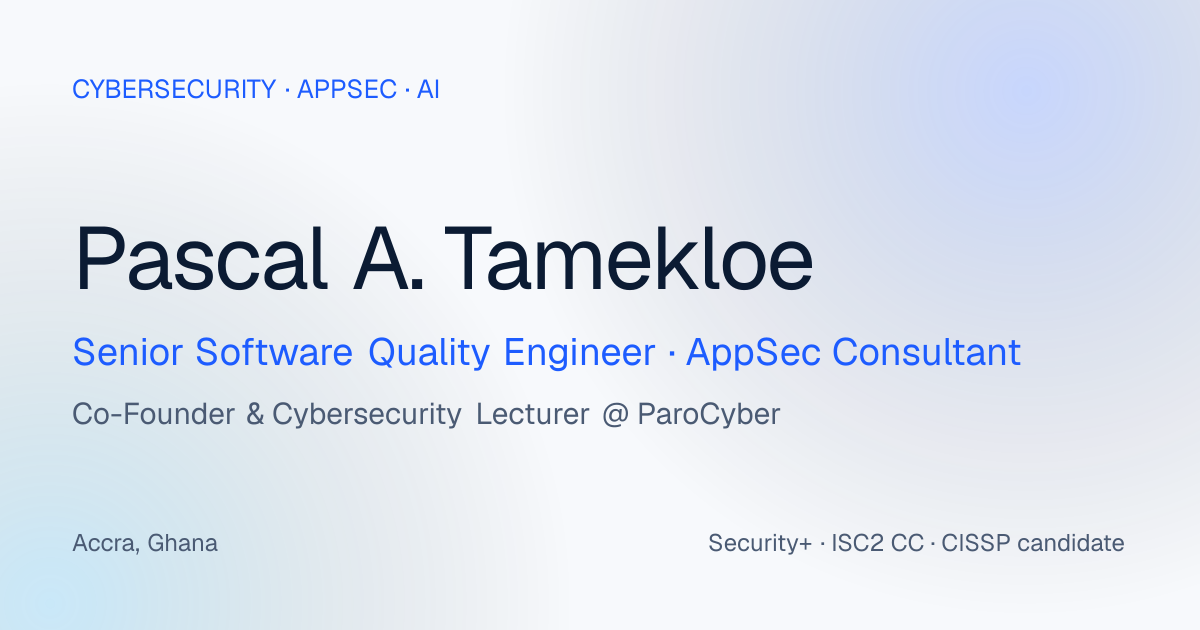
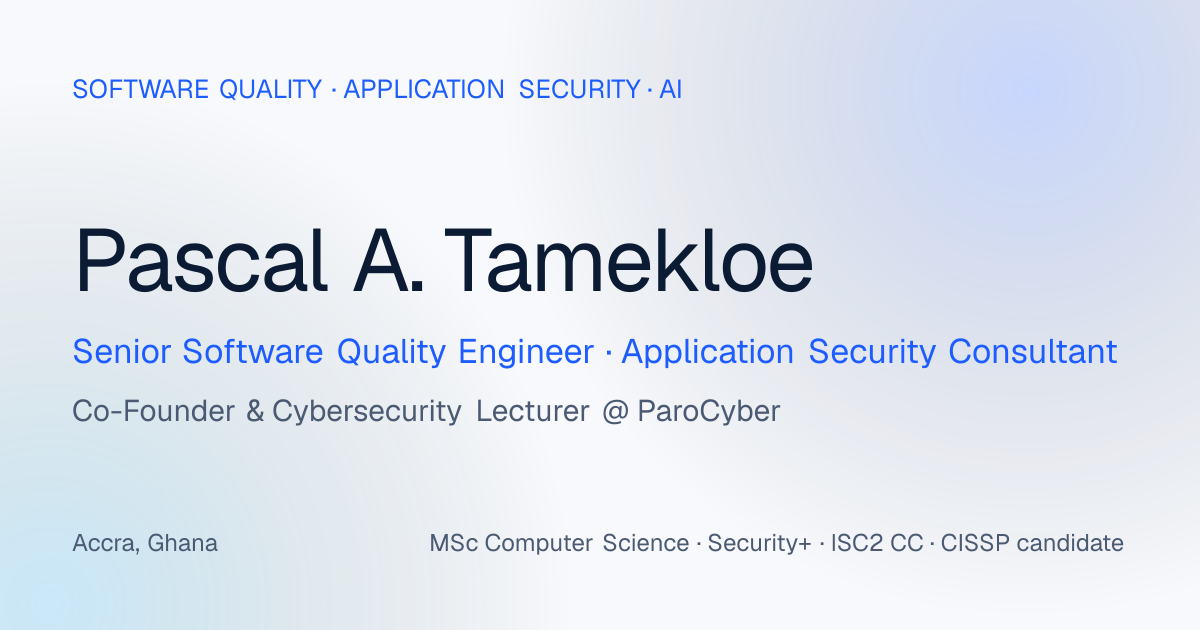
Application Security wording, new Focus line, full name in title
- Replace AppSec with Application Security across the site
- Focus: Software Quality Engineering · Automation Engineering · Application Security (AI) · Audit
- Page title includes Pascal Amoudzi Tamekloe and Pascal A. Tamekloe for search
- Regenerated social preview image; About facts full width on desktop

diff --git a/src/data/content.ts b/src/data/content.ts
@@ -11,7 +11,7 @@ export const site = {
   email: "pascalhugues0104@gmail.com",
   roles: [
     "a Senior Software Quality Engineer | Automation Engineer",
-    "an AppSec Consultant (Independent)",
+    "an Application Security Consultant (Independent)",
     "a Cybersecurity Lecturer",
     "the Co-Founder of ParoCyber",
   ],
@@ -41,7 +41,7 @@ export const about = {
   ],
   facts: [
     { k: "Education", v: "MSc Computer Science, University of Ghana" },
-    { k: "Focus", v: "AppSec · API Pen Testing · Audit" },
+    { k: "Focus", v: "Software\u00a0Quality\u00a0Engineering · Automation\u00a0Engineering · Application\u00a0Security\u00a0(AI) · Audit" },
     { k: "Currently", v: "Purple Wave Auction · ParoCyber" },
     { k: "Languages", v: "English & French (fluent)" },
   ],
@@ -171,7 +171,7 @@ export const aiWorkflow = {
 
 export type Project = {
   title: string;
-  category: "AI Security" | "AppSec" | "Infrastructure" | "Automation";
+  category: "AI Security" | "Application Security" | "Infrastructure" | "Automation";
   summary: string;
   bullets: string[];
   tags: string[];
@@ -192,8 +192,8 @@ export const projects: Project[] = [
     tags: ["OWASP LLM Top 10", "Prompt Injection", "Claude", "Threat Modeling"],
   },
   {
-    title: "ParoCyberBank: AppSec Training Lab",
-    category: "AppSec",
+    title: "ParoCyberBank: Application Security Training Lab",
+    category: "Application Security",
     summary:
       "A deliberately vulnerable online banking app with web UI and REST API, built to teach application security hands-on at ParoCyber.",
     bullets: [
@@ -320,7 +320,7 @@ export const experience: Job[] = [
       "Scale enterprise Playwright frameworks, automating 100+ critical test scenarios with the team",
       "Integrate AI-driven testing to accelerate pipelines and generate high-quality tests",
       "Coordinate weekly global releases with distributed teams across the US, India and Ghana",
-      "Validate security patches and core system upgrades; mentor teams through talks on testing, automation and AppSec",
+      "Validate security patches and core system upgrades; mentor teams through talks on testing, automation and application security",
     ],
   },
   {
@@ -335,7 +335,7 @@ export const experience: Job[] = [
       "Fuzzing and testing with Burp Suite; discovered multiple bugs and ran in-depth security analyses",
       "Execute automated and manual security testing methodologies",
       "Manage SIEM tooling such as Splunk",
-      "Cybersecurity lecturer: teach hands-on AppSec and OWASP courses, growing the student base significantly",
+      "Cybersecurity lecturer: teach hands-on application security and OWASP courses, growing the student base significantly",
     ],
   },
   {

diff --git a/src/components/Projects.tsx b/src/components/Projects.tsx
@@ -6,12 +6,12 @@ import { ArrowUpRight, Bot, Bug, Check, Server, Workflow } from "lucide-react";
 import { projects, type Project } from "@/data/content";
 import { Chip, Section, SectionHeading } from "./ui";
 
-const filters = ["All", "AI Security", "AppSec", "Infrastructure", "Automation"] as const;
+const filters = ["All", "AI Security", "Application Security", "Infrastructure", "Automation"] as const;
 type Filter = (typeof filters)[number];
 
 const cat: Record<Project["category"], { icon: typeof Bot; tint: string; bar: string }> = {
   "AI Security": { icon: Bot, tint: "bg-violet/10 text-violet", bar: "from-violet to-brand" },
-  AppSec: { icon: Bug, tint: "bg-danger/10 text-danger", bar: "from-danger to-[#f59e0b]" },
+  "Application Security": { icon: Bug, tint: "bg-danger/10 text-danger", bar: "from-danger to-[#f59e0b]" },
   Infrastructure: { icon: Server, tint: "bg-brand/10 text-brand", bar: "from-brand to-brand-2" },
   Automation: { icon: Workflow, tint: "bg-accent/10 text-accent", bar: "from-accent to-brand-2" },
 };

diff --git a/src/components/Nav.tsx b/src/components/Nav.tsx
@@ -81,7 +81,7 @@ export default function Nav() {
           </span>
           <span className="leading-tight">
             <span className="block text-[0.95rem] font-bold text-text">{site.name}</span>
-            <span className="block text-[0.7rem] font-medium text-muted">MSc · Software Quality & AppSec</span>
+            <span className="block text-[0.7rem] font-medium text-muted">MSc · Software Quality & Application Security</span>
           </span>
         </a>
 

diff --git a/src/app/layout.tsx b/src/app/layout.tsx
@@ -20,7 +20,7 @@ const jetbrains = JetBrains_Mono({
 export const metadata: Metadata = {
   metadataBase: new URL(site.url),
   title: {
-    default: `${site.name} | Cybersecurity Consultant & AppSec Pen Tester`,
+    default: `${site.fullName} (Pascal A. Tamekloe) | Senior Software Quality Engineer & Application Security Consultant`,
     template: `%s | ${site.name}`,
   },
   description: site.description,

diff --git a/src/components/About.tsx b/src/components/About.tsx
@@ -29,7 +29,7 @@ export default function About() {
 
         <div className="space-y-5 lg:pt-24">
           <Reveal>
-            <dl className="grid gap-3 sm:grid-cols-2 lg:grid-cols-1 xl:grid-cols-2">
+            <dl className="grid gap-3 sm:grid-cols-2 lg:grid-cols-1">
               {about.facts.map((f, i) => {
                 const Icon = factIcons[i % factIcons.length];
                 return (
